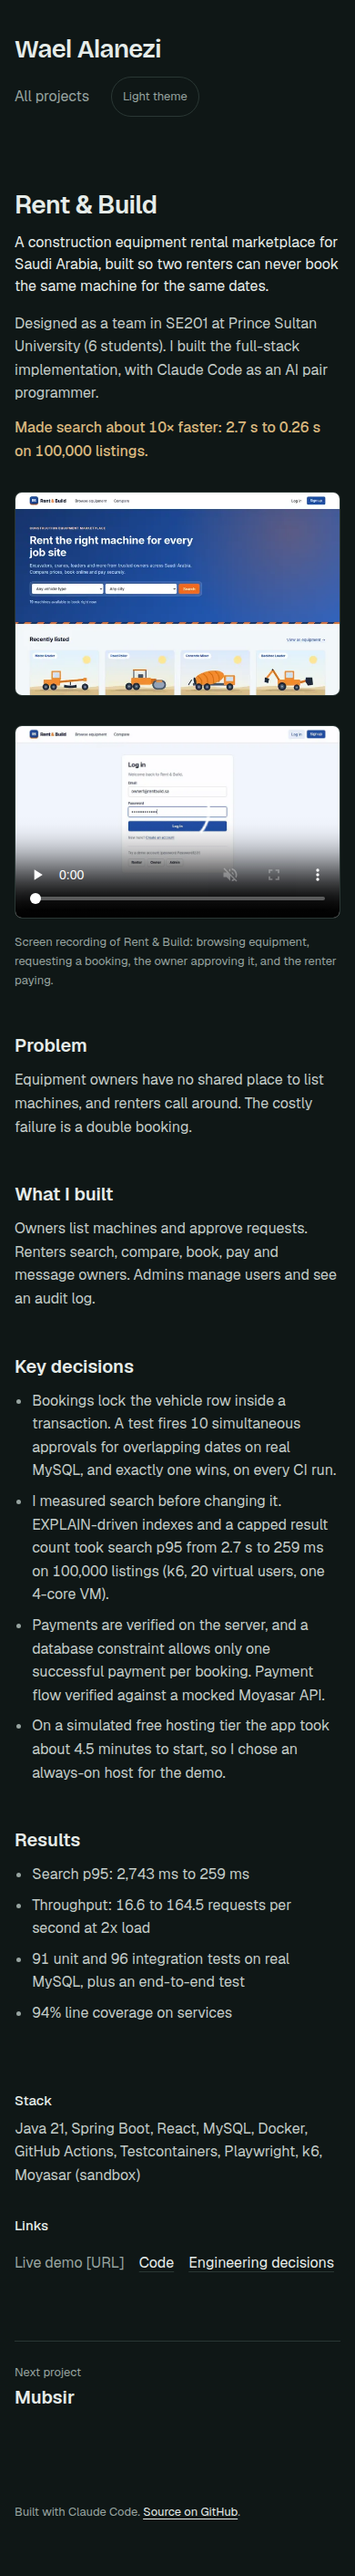
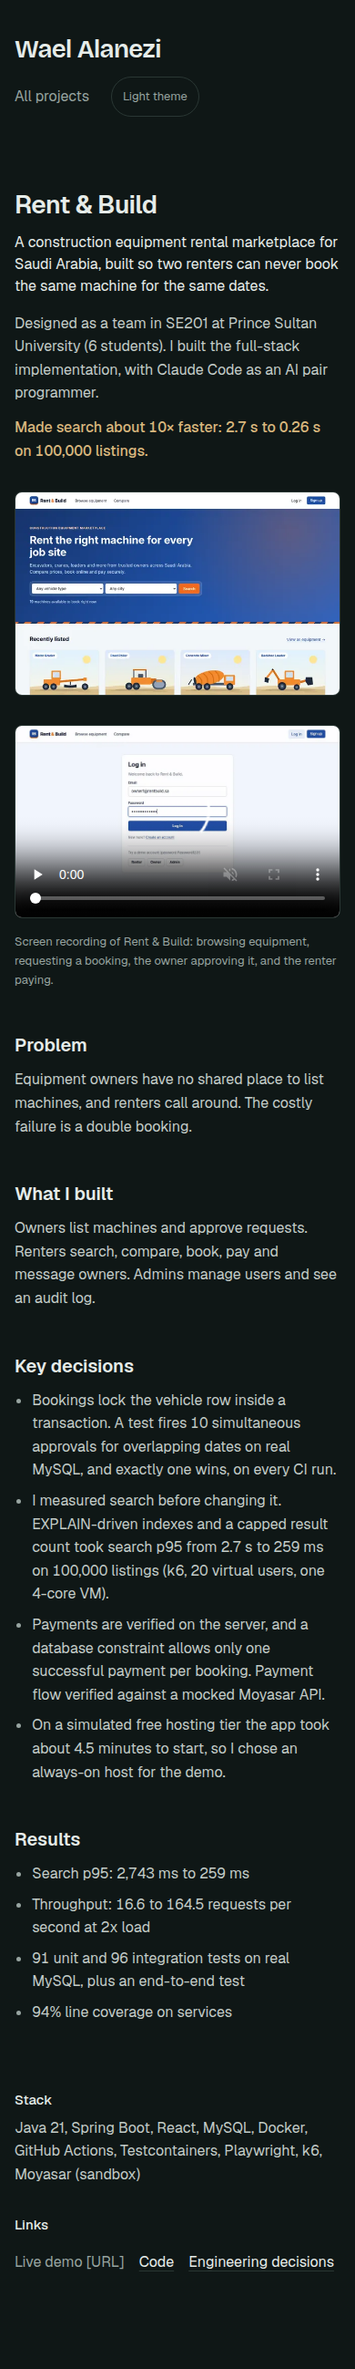
docs: update readme, decisions and screenshots
Claude-Session: https://claude.ai/code/session_014iE84MpdszDz8Z2h1drnfe

diff --git a/README.md b/README.md
@@ -8,14 +8,15 @@ All text lives in `src/content/`, so you don't need to touch code:
 
 - `src/content/site/home.yaml`: headline, intro, proof line, about, experience, education, training, activities, contact and links.
 - `src/content/projects/*.md`: one file per project. The top block (between `---` lines) holds the title, one-line summary, result, image and links. The text below it is the case-study page.
+- Only Rent & Build is live right now. Mubsir, Lessons Learned and the agentic assistant are written but hidden with `published: false` at the top of their files. To show one, delete that line (or set it to `true`) and push.
 
 Text in `[square brackets]` is a placeholder to replace.
 
 ## Add files
 
-- **CV:** put your CV at `public/cv.pdf`.
-- **Project screenshots:** replace `public/projects/mubsir.webp`, `lessons-learned.webp` and `agentic-assistant.webp` with 16:10 WebP screenshots (1280×800 works well), and update `imageAlt` in each project file.
-- **Certificates:** add `sdaia-agentic.webp`, `sdaia-genai.webp`, `tuwaiq-gcp-data.webp`, `eccma-mdqm.webp` and `ssa-space-mission.webp` to `public/certificates/`. Small preview thumbnails are made automatically in `public/certificates/thumbs/` when you run `npm run dev` or `npm run build`. Until then, each certificate shows a neutral placeholder card.
+- **CV:** `public/cv.pdf`. Replace the file to update it.
+- **Project screenshots:** when you publish a hidden project, replace its placeholder in `public/projects/` (`mubsir.webp`, `lessons-learned.webp`, `agentic-assistant.webp`) with a 16:10 WebP screenshot (1280×800 works well), and update `imageAlt` in its file.
+- **Certificates:** images live in `public/certificates/`. Four are in; add `eccma-mdqm.webp` for the ECCMA certificate. Small preview thumbnails are made automatically in `public/certificates/thumbs/` when you run `npm run dev` or `npm run build`. Until an image exists, that certificate shows a neutral placeholder card. Check certificates for personal details (such as an ID number) and cover them before adding.
 
 ## Run locally
 

diff --git a/docs/DECISIONS.md b/docs/DECISIONS.md
@@ -91,3 +91,13 @@ Bricolage uses its variable `opsz`, `wdth` and `wght` axes, with `font-optical-s
   - `theme-color` set before the first paint for the light theme.
 - **Already met:** keyboard use and focus management, visible focus rings, hit targets (24 px on desktop, 44 px on phones), reduced motion, image dimensions, font preloading, `color-scheme`, skip link and heading order.
 - **Not applied:** the Forms section (the site has no forms) and the Vercel-specific copywriting preferences (Title Case, "&" for "and"), which the guidelines mark as Vercel's own brand choices rather than universal rules. The site keeps sentence case, as the guidelines recommend for marketing pages.
+
+## Projects, footer, CV and certificates (Wael's request)
+- **What:** Only Rent & Build is published. Mubsir, Lessons Learned and the agentic assistant are kept in `src/content/projects/` with `published: false`, so they have no page, no sitemap entry and no card. "More on GitHub" was replaced by one line saying more projects are on the way, with a link to GitHub. The "Built with Claude Code" footer was removed from every page. Wael's CV is at `public/cv.pdf`. Four certificate images were added as WebP; ECCMA still shows its placeholder card.
+- **Why:** Wael asked for these changes. A `published` flag keeps the written content, so a project comes back by changing one line.
+- **Alternative rejected:** Deleting the hidden project files.
+
+## Personal data on certificates
+- **What:** The Tuwaiq Academy certificate showed Wael's national ID number. That line was covered with white before publishing, and the image's grey outer frame was cropped. Name, course, dates and the verification code are unchanged.
+- **Why:** The site is public, and a national ID number does not belong on it.
+- **Alternative rejected:** Publishing the certificate as received.
